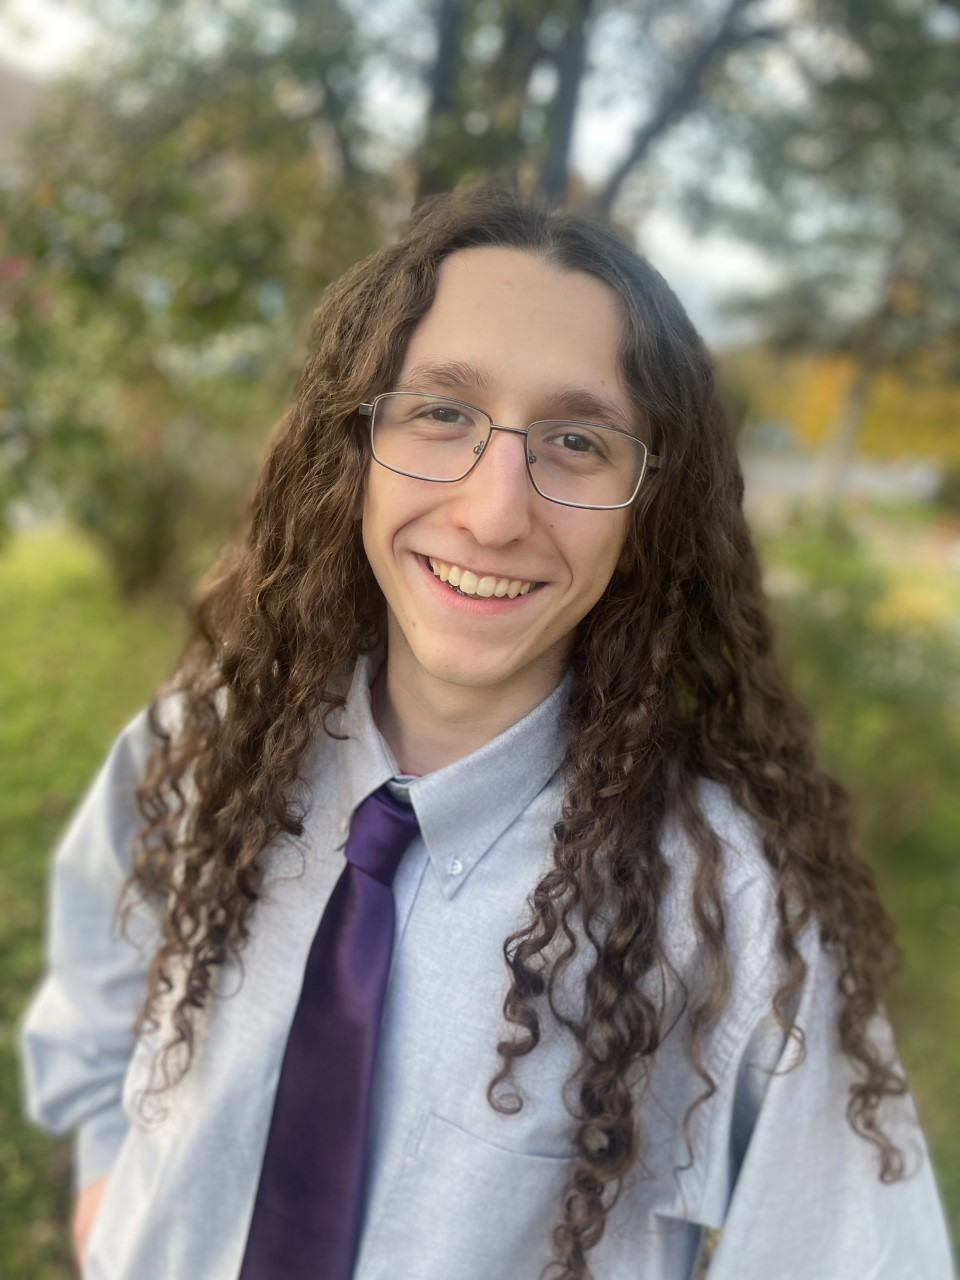
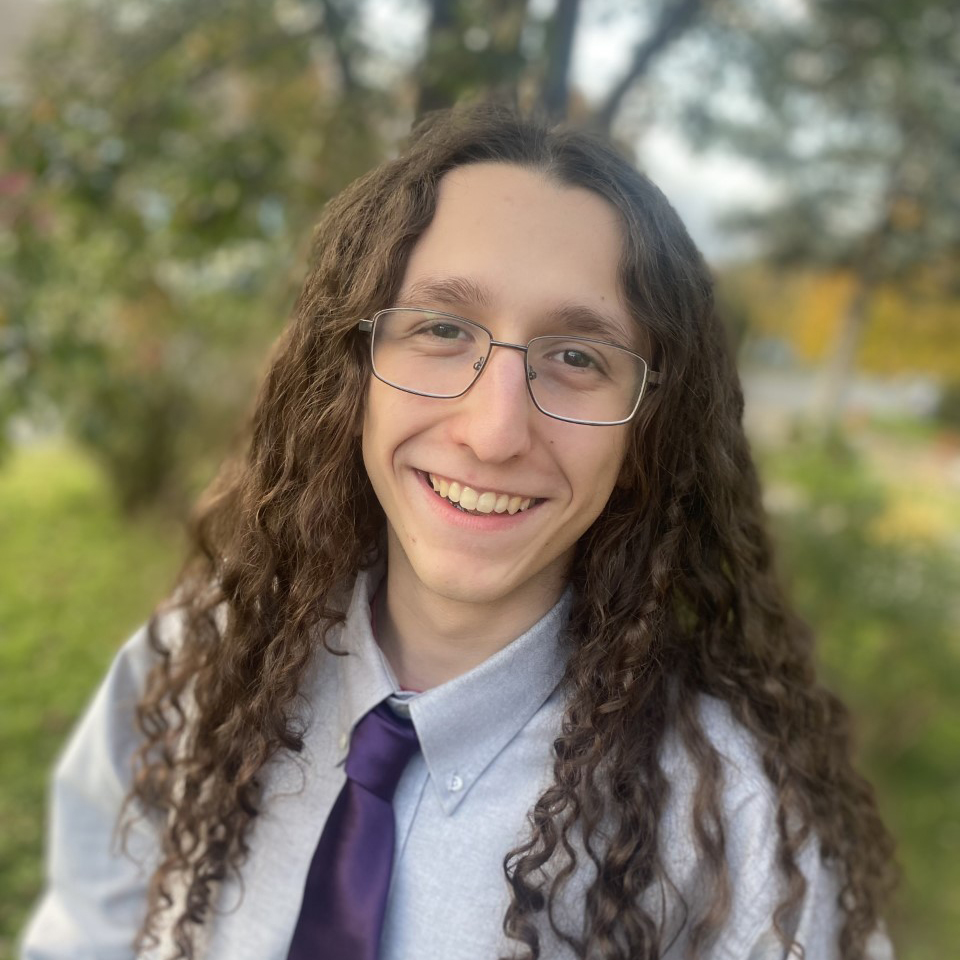
Restyling of things incl. revamp of main cards

diff --git a/index.html b/index.html
@@ -10,17 +10,15 @@
 <body class="bg-background text-light">
     <div class="container-fluid">
 
-        <div class="row bg-dark-purple text-offwhite">
+        <div id="about-me" class="row bg-dark-purple text-offwhite border-light-purple border-bottom">
             <div class="col-xl-6 container mt-2 p-2 ">
-                <h1 class="text-center">
-                    Duncan Bruens-Home
-                </h1>
-                <div class="row">
-                    <div class="col-sm-3 col-md-4 col-lg-4 col-xl-3">
-                        <img class="img-fluid rounded" src="./images/me.jpg" alt="A nice picture of me" />
+                <h1 class="text-center">Duncan Bruens-Home</h1>
+                <div class="row justify-content-center mx-0 p-3">
+                    <div class="col-sm-4 col-md-3 col-xl-3">
+                        <img id="me-picture" class="img-fluid rounded-circle border border-light-purple" src="./images/me.jpg" alt="A nice picture of me" />
                     </div>
-                    <div class="col">
-                        <h3 class="">About me:</h3>
+                    <div class="col-sm-6 align-self-center">
+                        <h2 class="">About me:</h2>
                         <p>
                             Full time nerd, always on the look out for interesting things.
                             <br><b>Currently looking for an internship!</b>
@@ -28,91 +26,101 @@
                     </div>
                 </div>
             </div>
-
         </div>
 
-        <div class="row mt-2">
-            <h2 class="col">
-                My Work
-            </h2>
+        <div class="row py-2">
+            <h2 class="col text-center">My Work</h2>
         </div>
 
-        <div class="row p-2 text-dark">
-            <div class="col-md col-lg-4 d-flex mb-2 mt-2">
-                <div class="card shadow-sm bg-offwhite border border-dark-purple">
-                    <a href="https://frunnkis.itch.io/ruins-of-dice">
-                        <img class="card-img-top border-bottom border-dark-purple" src="https://img.itch.zone/aW1nLzk0ODUyNjUucG5n/315x250%23c/80QDfx.png" alt="" />
-                    </a>
-                    <div class="card-body d-flex flex-column">
-                        <h5 class="card-title text-center">
-                            Ruins of Dice
-                        </h5>
-                        <p>
-                            This game was created as my entry into the 2022 GMTK game jam in less than 48 hours. It was well received, scoring in the top 35% of over 6000 participants.
-                            It was a unique experience, working under such tight constraints with little to no outside help save for my friend and talented animator, <i>MrHayami</i>.
-                        </p>
-                        <div class="text-center mt-auto">
-                            <a class="btn btn-success rounded-pill" href="https://frunnkis.itch.io/ruins-of-dice">
-                                Play Now!
-                            </a>
-                            <a class="btn btn-secondary rounded-pill" href="#">
-                                GitHub
-                            </a>
+        <div class="container-fluid container-lg">
+            <div class="row text-dark">
+                <div class="col-md-4 d-flex mb-2 mt-2">
+                    <div class="card bg-transparent text-white border border-dark-purple">
+                        <a href="https://frunnkis.itch.io/ruins-of-dice">
+                            <img class="card-img-top border-bottom border-dark-purple" src="https://img.itch.zone/aW1nLzk0ODUyNjUucG5n/315x250%23c/80QDfx.png" alt="" />
+                        </a>
+                        <div class="card-body d-flex flex-column">
+                            <h5 class="card-title text-center">
+                                Ruins of Dice
+                            </h5>
+                            <p>
+                                This game was created as my entry into the 2022 GMTK game jam in less than 48 hours. It was well received, scoring in the top 35% of over 6000 participants.
+                                It was a unique experience, working under such tight constraints with little to no outside help save for my friend and talented animator, <i>MrHayami</i>.
+                            </p>
+                            <div class="text-center mt-auto">
+                                <a class="btn btn-success rounded-pill" href="https://frunnkis.itch.io/ruins-of-dice">
+                                    Play Now!
+                                </a>
+                                <a class="btn btn-secondary rounded-pill" href="#">
+                                    GitHub
+                                </a>
+                            </div>
                         </div>
                     </div>
                 </div>
-            </div>
 
-            <div class="col-md col-lg-4 d-flex mb-2 mt-2">
-                <div class="card shadow-sm bg-offwhite border border-dark-purple">
-                    <a href="#">
-                        <img class="card-img-top border-bottom border-dark-purple" src="images/SamuraiCover.png" alt="The Second Unnamed Samurai" />
-                    </a>
-                    <div class="card-body d-flex flex-column">
-                        <h5 class="card-title text-center">
-                            The Second Unnamed Samurai
-                        </h5>
-                        <p>
-                            This project was created by a small team, as our final for our introductory Unity class at Champlain College.
-                            Our team was composed of 2 main developers, including myself and Maxime Dufour, our main composer Nicolas Robert and artist <i>MrHayami</i>.
-                        </p>
-                        <div class="text-center mt-auto">
-                            <a class="btn btn-secondary rounded-pill" href="#">
-                                Coming Soon!
-                            </a>
-                            <a class="btn btn-blue text-light rounded-pill" href="https://github.com/DuncanBH/FinalPlatformerProject">
-                                GitHub
-                            </a>
+                <div class="col-md col-lg-4 d-flex mb-2 mt-2">
+                    <div class="card bg-transparent text-white border border-dark-purple">
+                        <a href="#">
+                            <img class="card-img-top border-bottom border-dark-purple" src="images/SamuraiCover.png" alt="The Second Unnamed Samurai" />
+                        </a>
+                        <div class="card-body d-flex flex-column">
+                            <h5 class="card-title text-center">
+                                The Second Unnamed Samurai
+                            </h5>
+                            <p>
+                                This project was created by a small team, as our final for our introductory Unity class at Champlain College.
+                                Our team was composed of 2 main developers, including myself and Maxime Dufour, our main composer Nicolas Robert and artist <i>MrHayami</i>.
+                            </p>
+                            <div class="text-center mt-auto">
+                                <a class="btn btn-secondary rounded-pill" href="#">
+                                    Coming Soon!
+                                </a>
+                                <a class="btn btn-blue text-light rounded-pill" href="https://github.com/DuncanBH/FinalPlatformerProject">
+                                    GitHub
+                                </a>
+                            </div>
                         </div>
                     </div>
                 </div>
-            </div>
 
-            <div class="col-md col-lg-4 d-flex mb-2 mt-2">
-                <div class="card shadow-sm bg-offwhite border border-dark-purple">
-                    <a href="https://github.com/istiaque-champ/champ_petclinic">
-                        <img class="card-img-top border-bottom border-dark-purple" src="images/Petclinic.png" alt="The Second Unnamed Samurai" />
-                    </a>
-                    <div class="card-body d-flex flex-column">
-                        <h5 class="card-title text-center">
-                            Champlain "PetClinic" Project
-                        </h5>
-                        <p>
-                            The PetClinic project was my first exposure to real-life agile development, using SCRUM.
-                            Working in a small team, in conjunction with numerous others, to upgrade and oftentimes
-                            repair a complex microservice application provided a great way to experience real development work.
-                        </p>
-                        <div class="text-center mt-auto">
-                            <a class="btn btn-blue text-light rounded-pill" style="object-fit: cover" href="https://github.com/istiaque-champ/champ_petclinic">
-                                GitHub
-                            </a>
+                <div class="col-md col-lg-4 d-flex mb-2 mt-2">
+                    <div class="card bg-transparent text-white border border-dark-purple">
+                        <a href="https://github.com/istiaque-champ/champ_petclinic">
+                            <img class="card-img-top border-bottom border-dark-purple" src="images/Petclinic.png" alt="The Second Unnamed Samurai" />
+                        </a>
+                        <div class="card-body d-flex flex-column">
+                            <h5 class="card-title text-center">
+                                Champlain "PetClinic" Project
+                            </h5>
+                            <p>
+                                The PetClinic project was my first exposure to real-life agile development, using SCRUM.
+                                Working in a small team, in conjunction with numerous others, to upgrade and oftentimes
+                                repair a complex microservice application provided a great way to experience real development work.
+                            </p>
+                            <div class="text-center mt-auto">
+                                <a class="btn btn-blue text-light rounded-pill" style="object-fit: cover" href="https://github.com/istiaque-champ/champ_petclinic">
+                                    GitHub
+                                </a>
+                            </div>
                         </div>
                     </div>
                 </div>
+
             </div>
-
-
         </div>
     </div>
 </body>
+<footer class="bg-dark text-center text-white mt-3">
+    <div class="container">
+        <div class="row">
+            <div class="col">&copy;<span id="year"></span></div>
+        </div>
+    </div>
+</footer>
+<script defer>
+    const d = new Date();
+    let year = d.getFullYear();
+    document.getElementById("year").innerHTML = year;
+</script>
 </html>

diff --git a/scss/main.scss b/scss/main.scss
@@ -21,16 +21,30 @@ $theme-colors: map-merge($theme-colors, $custom-colors);
 .card {
   border-radius: 4px;
   background: #fff;
-  box-shadow: 0 6px 10px rgba(0, 0, 0, 0.08),
-  0 0 6px rgba(0, 0, 0, 0.05);
   transition: 0.3s transform cubic-bezier(0.155, 1.105, 0.295, 1.12),
   0.3s box-shadow,
   0.3s -webkit-transform cubic-bezier(0.155, 1.105, 0.295, 1.12);
   cursor: pointer;
+  box-shadow: 0 0 10px var(--bs-light-purple);
 }
 
 .card:hover {
   transform: scale(1.05);
-  box-shadow: 0 10px 20px rgba(0, 0, 0, 0.12),
-  0 4px 8px rgba(0, 0, 0, 0.06);
+  background-color: rgba(var(--bs-dark-purple-rgb), 0.52) !important;
+}
+
+#me-picture {
+  box-shadow: 0 0 15px var(--bs-light-purple);
+}
+
+#about-me {
+  background-image: linear-gradient(
+                  to bottom,
+                  rgba(var(--bs-dark-rgb), 0.52),
+                  rgba(var(--bs-dark-purple-rgb), var(--bs-bg-opacity))
+  ),
+  url("/images/comp.jpg");
+  background-size: cover;
+  background-repeat: no-repeat;
+  color: white;
 }

diff --git a/scss/main.css b/scss/main.css
@@ -11376,14 +11376,25 @@ textarea.form-control-lg {
 .card {
   border-radius: 4px;
   background: #fff;
-  box-shadow: 0 6px 10px rgba(0, 0, 0, 0.08), 0 0 6px rgba(0, 0, 0, 0.05);
   transition: 0.3s transform cubic-bezier(0.155, 1.105, 0.295, 1.12), 0.3s box-shadow, 0.3s -webkit-transform cubic-bezier(0.155, 1.105, 0.295, 1.12);
   cursor: pointer;
+  box-shadow: 0 0 10px var(--bs-light-purple);
 }
 
 .card:hover {
   transform: scale(1.05);
-  box-shadow: 0 10px 20px rgba(0, 0, 0, 0.12), 0 4px 8px rgba(0, 0, 0, 0.06);
+  background-color: rgba(var(--bs-dark-purple-rgb), 0.52) !important;
+}
+
+#me-picture {
+  box-shadow: 0 0 15px var(--bs-light-purple);
+}
+
+#about-me {
+  background-image: linear-gradient(to bottom, rgba(var(--bs-dark-rgb), 0.52), rgba(var(--bs-dark-purple-rgb), var(--bs-bg-opacity))), url("/images/comp.jpg");
+  background-size: cover;
+  background-repeat: no-repeat;
+  color: white;
 }
 
 /*# sourceMappingURL=main.css.map */
